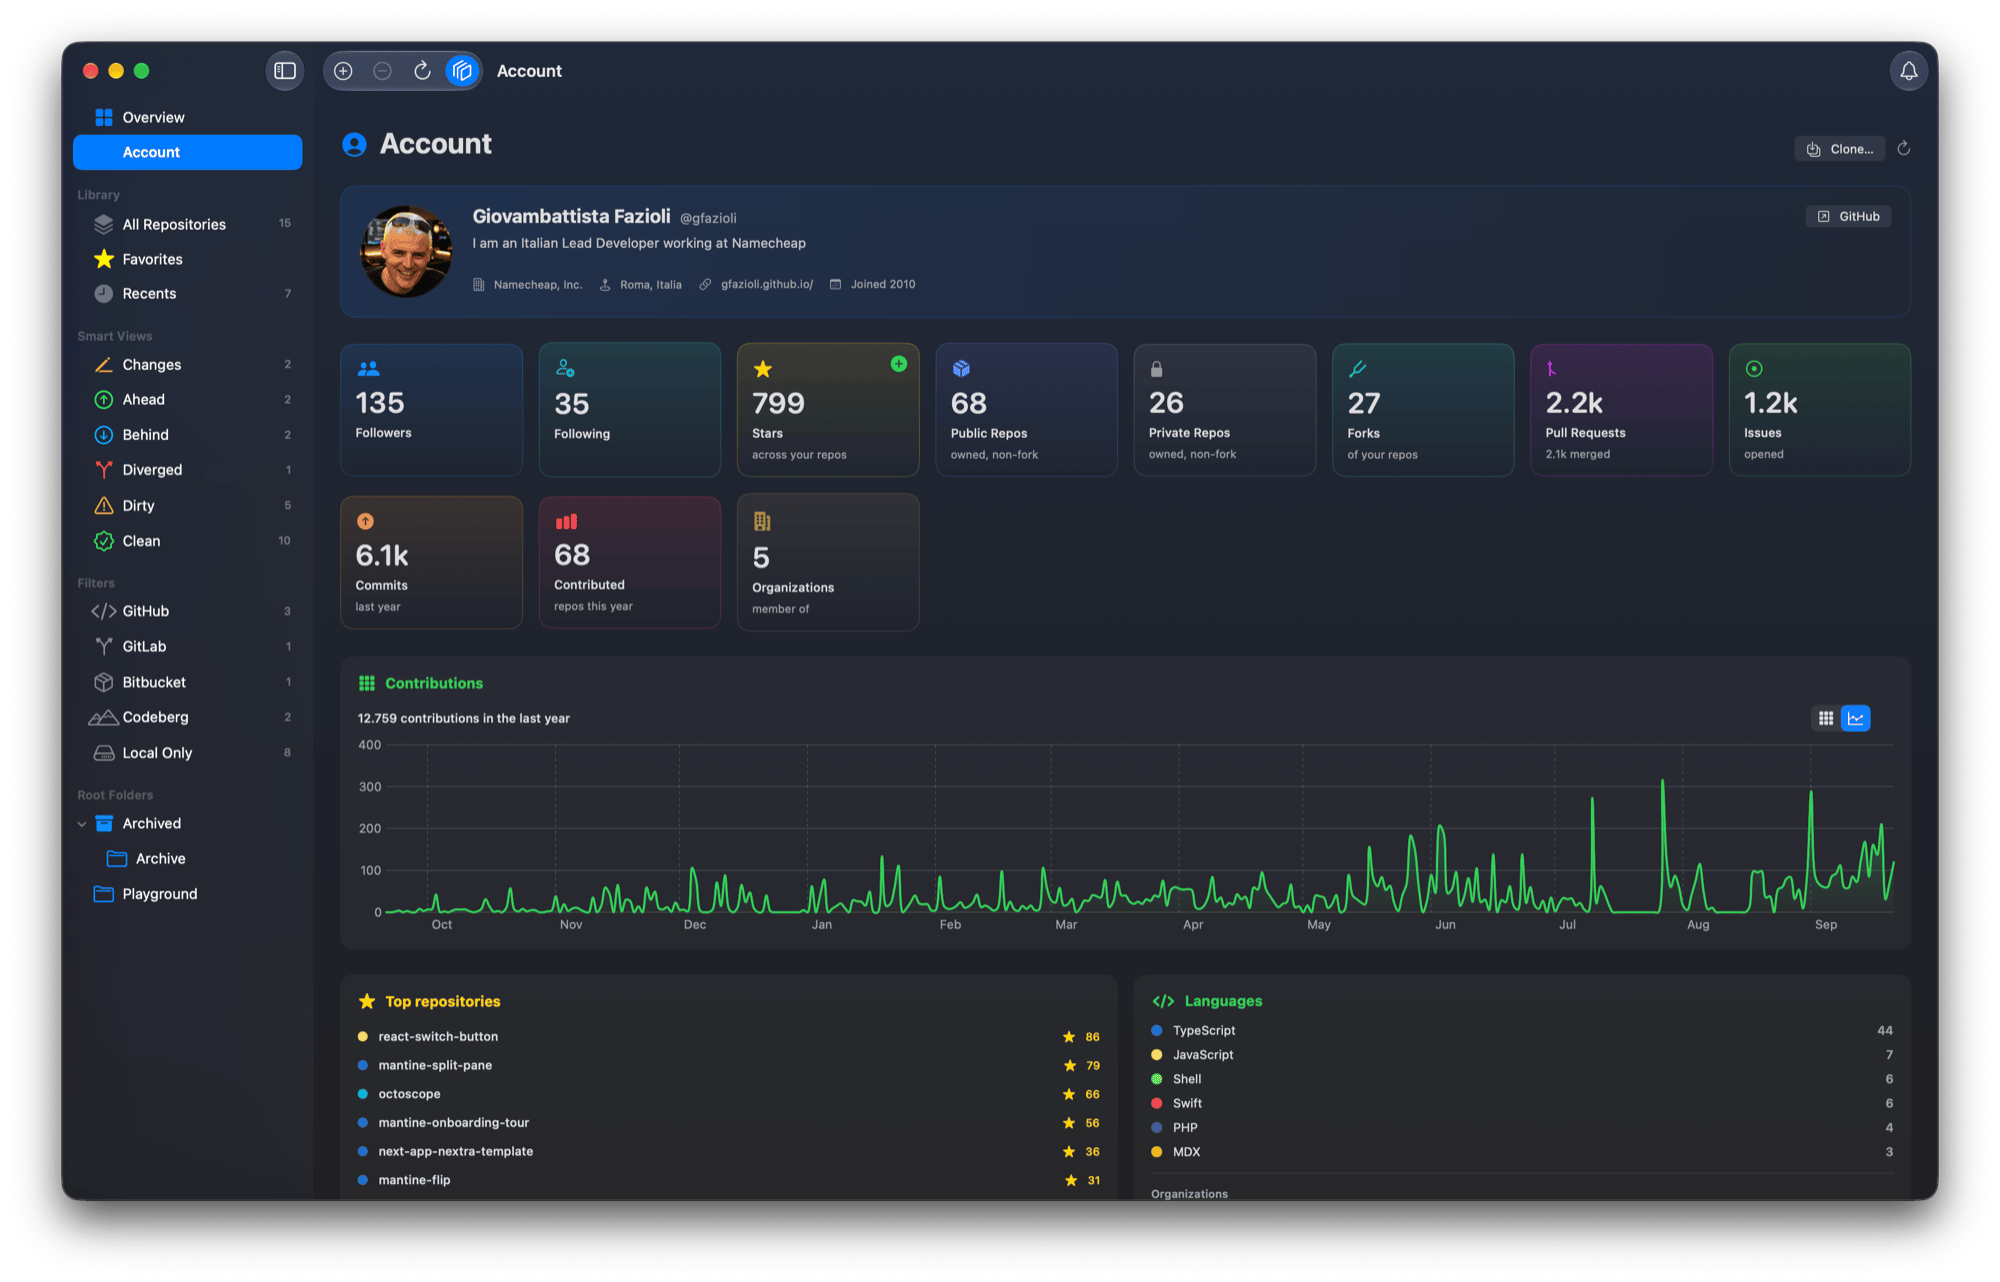
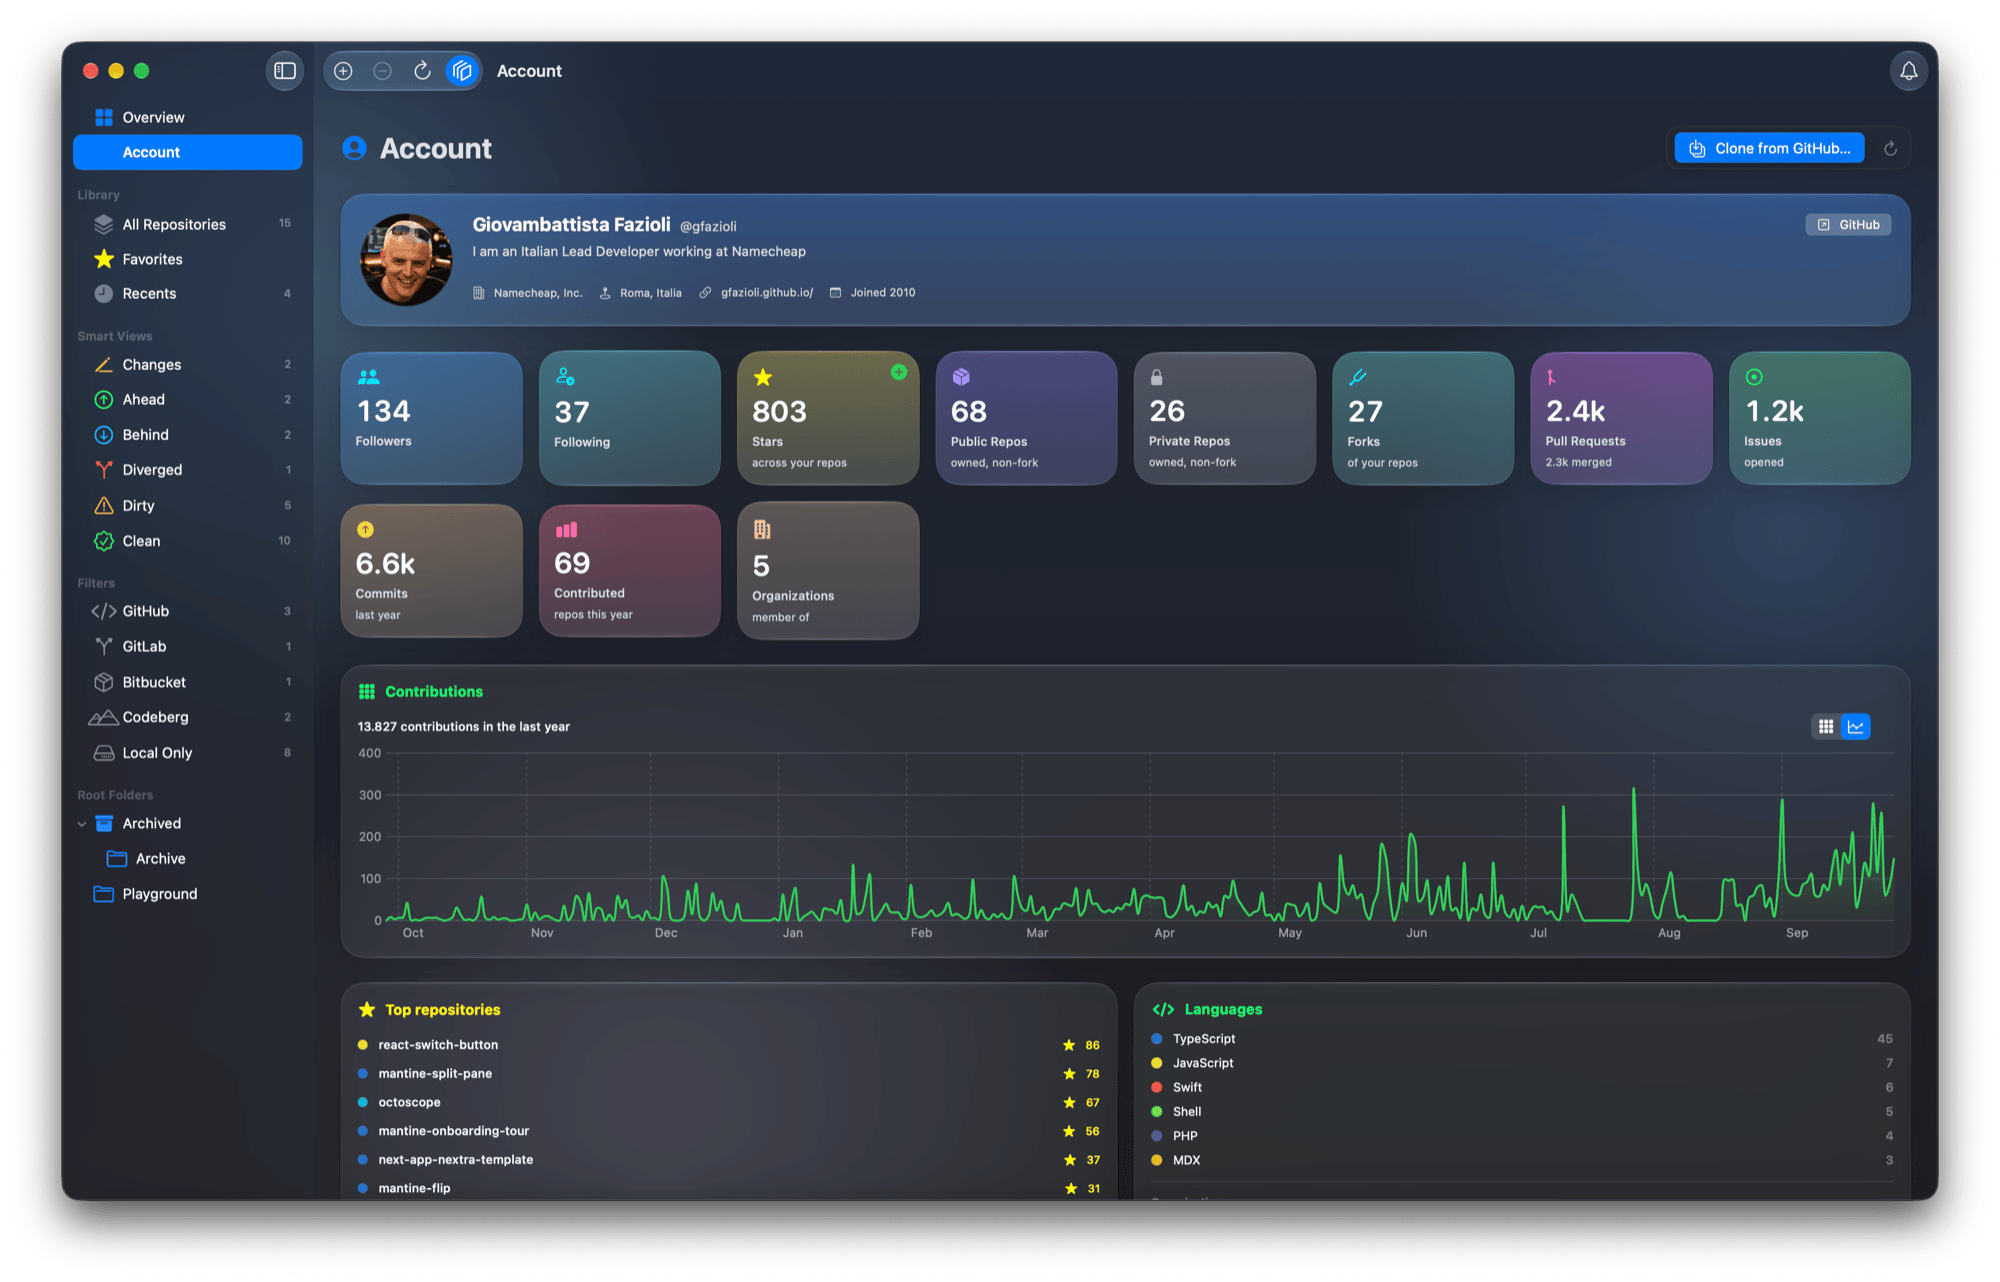
feat(sparkle): publish FinderGit v0.40.0 to appcast

diff --git a/public/release-notes/0.40.0.html b/public/release-notes/0.40.0.html
@@ -1,0 +1,107 @@
+<!DOCTYPE html>
+<html lang="en">
+<head>
+<meta charset="utf-8">
+<meta name="viewport" content="width=device-width, initial-scale=1">
+<title>FinderGit 0.40.0 — Release Notes</title>
+<style>
+  :root {
+    color-scheme: light dark;
+    --bg: #ffffff;
+    --fg: #1a1a1a;
+    --accent: #007aff;
+    --muted: #6b6b73;
+    --code-bg: #f4f4f5;
+    --border: rgba(0,0,0,0.12);
+  }
+  @media (prefers-color-scheme: dark) {
+    :root {
+      --bg: #1c1c1e;
+      --fg: #ececec;
+      --muted: #9c9ca5;
+      --code-bg: #2c2c2e;
+      --border: rgba(255,255,255,0.14);
+    }
+  }
+  * { box-sizing: border-box; }
+  body {
+    font: 14px/1.55 -apple-system, BlinkMacSystemFont, "SF Pro Text", "Helvetica Neue", sans-serif;
+    color: var(--fg);
+    background: var(--bg);
+    margin: 0 auto;
+    padding: 20px 24px 40px;
+    max-width: 720px;
+  }
+  header.page-header {
+    border-bottom: 1px solid var(--border);
+    padding-bottom: 14px;
+    margin-bottom: 22px;
+  }
+  header.page-header h1 { font-size: 1.7em; margin: 0 0 4px; letter-spacing: -0.02em; }
+  header.page-header .subtitle { color: var(--muted); margin: 0; font-size: 0.92em; }
+  h1, h2, h3, h4 { letter-spacing: -0.01em; margin: 1.5em 0 0.5em; }
+  h1 { font-size: 1.4em; }
+  h2 { font-size: 1.2em; }
+  h3 { font-size: 1em; }
+  a { color: var(--accent); }
+  hr { border: 0; border-top: 1px solid var(--border); margin: 22px 0; }
+  ul, ol { padding-left: 1.4em; }
+  li { margin: 4px 0; }
+  code {
+    font: 0.9em ui-monospace, "SF Mono", Menlo, Consolas, monospace;
+    background: var(--code-bg);
+    padding: 1px 5px;
+    border-radius: 3px;
+  }
+  pre {
+    background: var(--code-bg);
+    padding: 12px 14px;
+    border-radius: 6px;
+    overflow-x: auto;
+    font-size: 0.88em;
+  }
+  pre code { background: transparent; padding: 0; font-size: 1em; }
+  blockquote {
+    margin: 12px 0;
+    padding-left: 12px;
+    border-left: 3px solid var(--border);
+    color: var(--muted);
+  }
+  table { border-collapse: collapse; width: 100%; margin: 12px 0; font-size: 0.95em; }
+  th, td { border: 1px solid var(--border); padding: 6px 10px; text-align: left; }
+  th { background: var(--code-bg); }
+  img { max-width: 100%; }
+</style>
+</head>
+<body>
+<header class="page-header">
+  <h1>FinderGit 0.40.0</h1>
+  <p class="subtitle">Release notes</p>
+</header>
+<p>FinderGit 0.40.0 — dashboards that arrive, pull to refresh, and a What's New that gets out of the way</p>
+<h2>Highlights</h2>
+<ul>
+<li><strong>The cards on the Overview and the Account arrive rather than simply appear.</strong> Each lands just after the one before, its figures roll up from zero and the health ring fills. A refresh you ask for — the toolbar, ⌘R, the header's button or a pull — presses every card and rolls the figures again, so you can watch them being measured, while an update in the background moves them in place. With Reduce Motion on, nothing moves.</li>
+<li><strong>On macOS 26 and later the cards are made of glass</strong>, rounder and with no line drawn around them, over soft light in the colors of the app's icon. The color sits under the glass rather than in it, so a card keeps it when the window is not in front. On macOS 15 they keep their gradient, and are rounder too.</li>
+<li><strong>On macOS 27, pull the Overview or the Account down to refresh it, as in Mail.</strong> It is the same Refresh as the toolbar button and ⌘R: the spinner turns for a moment and then lets the page go, while the work carries on. The Account's header now carries the same <strong>Clone from GitHub…</strong> and refresh buttons as the Overview's.</li>
+<li><strong>After an update, a small card in the corner says which version has arrived</strong>, and <strong>Learn More…</strong> opens its notes in the Release Notes window. The notes used to fill a panel in that corner, which a long release could push past the top of the window. Help → Release Notes… still has every release, so the menu item that reopened the panel has gone.</li>
+<li><strong>The Release Notes window shows each release with a preview of its first change</strong>, marks the one you are running as <strong>Installed</strong>, and sets the notes at reading size. Back and Forward (⌘[ and ⌘]) retrace the releases you looked at, as in System Settings.</li>
+</ul>
+<h2>Bug fixes</h2>
+<ul>
+<li><strong>A release's unread dot goes when you open it.</strong> The Release Notes window measured its dots against a mark taken when it opened, so a dot stayed for as long as the window was up, and every dot went at the next opening, read or not. A release is now read the moment its row is selected, and what the old window showed as read stays read.</li>
+</ul>
+<h2>Under the hood</h2>
+<p>The pull is a trigger rather than a hold: it runs the global Refresh in a task of its own and lets go after two seconds at most, or sooner when the work is done. On the Overview it holds on a pending flag raised before your root folders are rescanned, which comes before any repository is read again, and only the pass the refresh asked for clears it.</p>
+<p>Text on the cards uses explicit ink levels, because default label colors turn vibrant on glass and lose contrast; by day the rim light is the icon's blue rather than white. The Overview's panels, which a drag re-creates when it reorders them, show at rest rather than landing again.</p>
+<p>The window's unread state is a baseline plus the releases read one by one. The baseline has a key of its own, seeded once at launch from the later of the two marks the previous window read, so nothing it showed as read turns unread again, and a fresh install starts counting from the release it installed. The window lists only the releases the running build is or predates.</p>
+<h2>Install</h2>
+<ol>
+<li>Download <code class="notranslate">FinderGit-0.40.0.dmg</code></li>
+<li>Open the DMG and drag FinderGit into Applications</li>
+<li>Launch normally — the app is signed with an Apple Developer ID and notarized by Apple</li>
+</ol>
+<h2>Requirements</h2>
+<p>macOS 15 or later. Universal binary (Apple Silicon and Intel). Pull to refresh needs macOS 27, and the glass cards macOS 26.</p>
+</body>
+</html>

diff --git a/config/index.ts b/config/index.ts
@@ -91,13 +91,13 @@ export default {
     defaultLanguage: 'en',
   },
   app: {
-    version: '0.39.0',
+    version: '0.40.0',
     // Publication date of `version`, UTC, written by release.sh next to the
     // version itself. It is the OFFLINE FALLBACK for the homepage release
     // strip: the live date and the release count come from the GitHub
     // releases API, and this is what the strip shows when that call is
     // rate-limited or down. Also the JSON-LD `dateModified`.
-    releaseDate: '2026-09-21',
+    releaseDate: '2026-09-29',
     minMacOS: '15.0',
     downloadUrl: 'https://github.com/gfazioli/findergit-website/releases/latest',
   },
